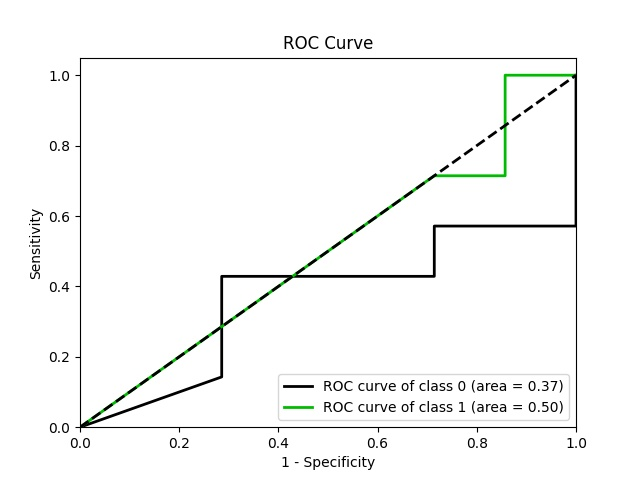
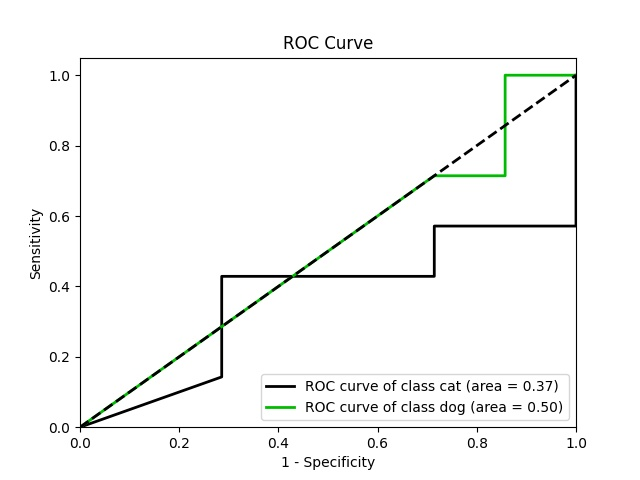
Update class index in charts to class names

Changed region(s): [[0.4062, 0.7812, 0.875, 0.875], [0.4062, 0.7812, 0.4375, 0.8125]]

diff --git a/utils/visualization.py b/utils/visualization.py
@@ -40,6 +40,10 @@ class Visualization:
         sns_plot.set_xlabel('Prediction')
         sns_plot.xaxis.set_label_position('top')
         sns_plot.set_ylabel('Real')
+
+        sns_plot.set_xticklabels(self.predictor.label_names)
+        sns_plot.set_yticklabels(self.predictor.label_names)
+
         sns_plot.figure.savefig(os.path.join(self.charts_dir, 'confusion_matrix.jpg'))
 
     def get_accuracy_chart(self):
@@ -61,10 +65,14 @@ class Visualization:
         plt.savefig(os.path.join(self.charts_dir, 'loss.jpg'))
 
     def get_roc_curve(self):
-        skplt.metrics.plot_roc(self.predictor.y_test,
+        y_test = self.predictor.y_test.copy()
+        y_test = [self.predictor.label_names[index] for index in y_test]
+
+        skplt.metrics.plot_roc(y_test,
                                self.predictor.y_pred,
                                plot_micro=False,
-                               plot_macro=False)
+                               plot_macro=False,
+                               )
         plt.title('ROC Curve')
         plt.xlabel('1 - Specificity')
         plt.ylabel('Sensitivity')

diff --git a/data/data_predictor.py b/data/data_predictor.py
@@ -22,7 +22,8 @@ class Predictor:
         self.y_pred_classes = np.argmax(self.y_pred_classes, axis=1)
 
         self.label_map = self.data_generator.class_indices
-        self.reversed_label_map = {v: k for k, v in self.data_generator.class_indices.items()}
+        self.reversed_label_map = {label_index: label_name for label_name, label_index in self.data_generator.class_indices.items()}
+        self.label_names = [label_name for _, label_name in sorted(self.reversed_label_map.items(), key=lambda item: item[0])]
 
         self.save_prediction_results()
 
